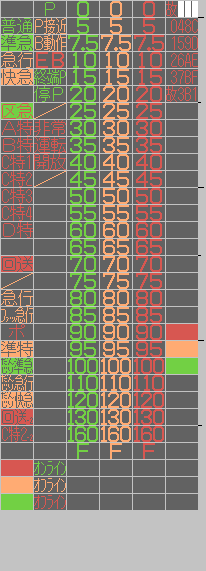
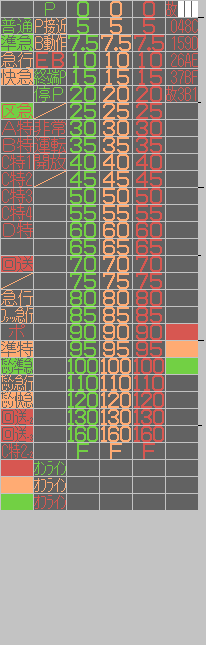
忘れ去られた快急→急行変更適用 92年展示回送の回送-3対応

diff --git a/Diadata/DiaNameTrack.cs b/Diadata/DiaNameTrack.cs
@@ -15,6 +15,7 @@ namespace TatehamaATS.Diadata
                     TrainState.RouteDatabase.CircuitList[35].ChengeName("館浜下り場内1LB");
                     break;
 
+                //だんじり・試運転
                 case "回7281":
                 case "7281B":
                 case "回1195":
@@ -35,17 +36,18 @@ namespace TatehamaATS.Diadata
                 case "1280C":
                 case "回7190":
                 case "回7290":
-                    //元シナリオ：列番不定　館　浜　→発車共通／内容：発車２番振替 
+                    //元シナリオ：列番不定　館　浜　→発車共通／内容：発線２番振替 
                     TrainState.RouteDatabase.CircuitList[0].ChengeName("館浜下り場内1LB");
                     TrainState.RouteDatabase.CircuitList[1].ChengeName("館浜上り出発2R");
                     break;
 
+                //92年 4300展示回送用　
                 case "回7001":
-                    //92年 4300展示回送用　江ノ原検→館　浜　／内容：着線３番振替 
+                    //元シナリオ：回 607A　江ノ原検→館　浜　／内容：着線３番振替 
                     TrainState.RouteDatabase.CircuitList[34].ChengeName("館浜下り場内1LC");
                     break;
                 case "回7200":
-                    //92年 4300展示回送用　館　浜　→発車 ／内容：発車３番振替 
+                    //元シナリオ：回 862 　館　浜　→江ノ原検／内容：発線３番振替 
                     TrainState.RouteDatabase.CircuitList[0].ChengeName("館浜下り場内1LB");
                     TrainState.RouteDatabase.CircuitList[1].ChengeName("館浜上り出発3R");
                     break;

diff --git a/Diadata/DiaNameToDatebaseName.cs b/Diadata/DiaNameToDatebaseName.cs
@@ -164,17 +164,14 @@ namespace TatehamaATS.Diadata
                 {"回7200", "回862"},
 
                 //着線別入力用列番
-                {"4301", "1166"}, //普通　津崎１番線着
-                {"4302", "1260"}, //普通　津崎２番線着
-                {"4303", "1261"}, //普通　津崎３番線着
-                {"4304", "1267"}, //普通　津崎４番線着
-                {"3001B", "3643K"}, //急行　館浜２番線発
-                {"3002B", "678B"},　//急行　館浜２番線着
-                {"5001A", "1209A"}, //特急　館浜１番線着
-                {"5002A", "1204A"}, //特急　館浜１番線発
-
-
-
+                {"9410", "1166"}, //普通　津崎１番線着
+                {"9420", "1260"}, //普通　津崎２番線着
+                {"9034", "1261"}, //普通　津崎３番線着
+                {"9044", "1267"}, //普通　津崎４番線着
+                {"9200B", "3643K"}, //急行　館浜２番線発
+                {"9002B", "678B"},　//急行　館浜２番線着
+                {"9110A", "1204A"}, //C特1　館浜１番線発     
+                {"9201A", "1209A"}, //C特2　館浜１番線着
 
                 //--編集可能ここまで
             };

diff --git a/Diadata/TypeLED.cs b/Diadata/TypeLED.cs
@@ -55,6 +55,25 @@ namespace TatehamaATS.Diadata
                     MainWindow.controlLED.overrideText = "だんじり快急";
                     break;
 
+                //92年
+                case "1041B":
+                case "1037B":
+                case "1035B":
+                case "1231B":
+                case "1147B":
+                case "1143B":
+                case "1039B":
+                case "1149B":
+                case "1145B":
+                    MainWindow.controlLED.overrideText = "急行";
+                    break;
+
+                //92年 4300展示回送    
+                case "回7001":
+                case "回7200":
+                    MainWindow.controlLED.overrideText = "回送-3";
+                    break;
+
                 default:
                     MainWindow.controlLED.overrideText = null;
                     break;
